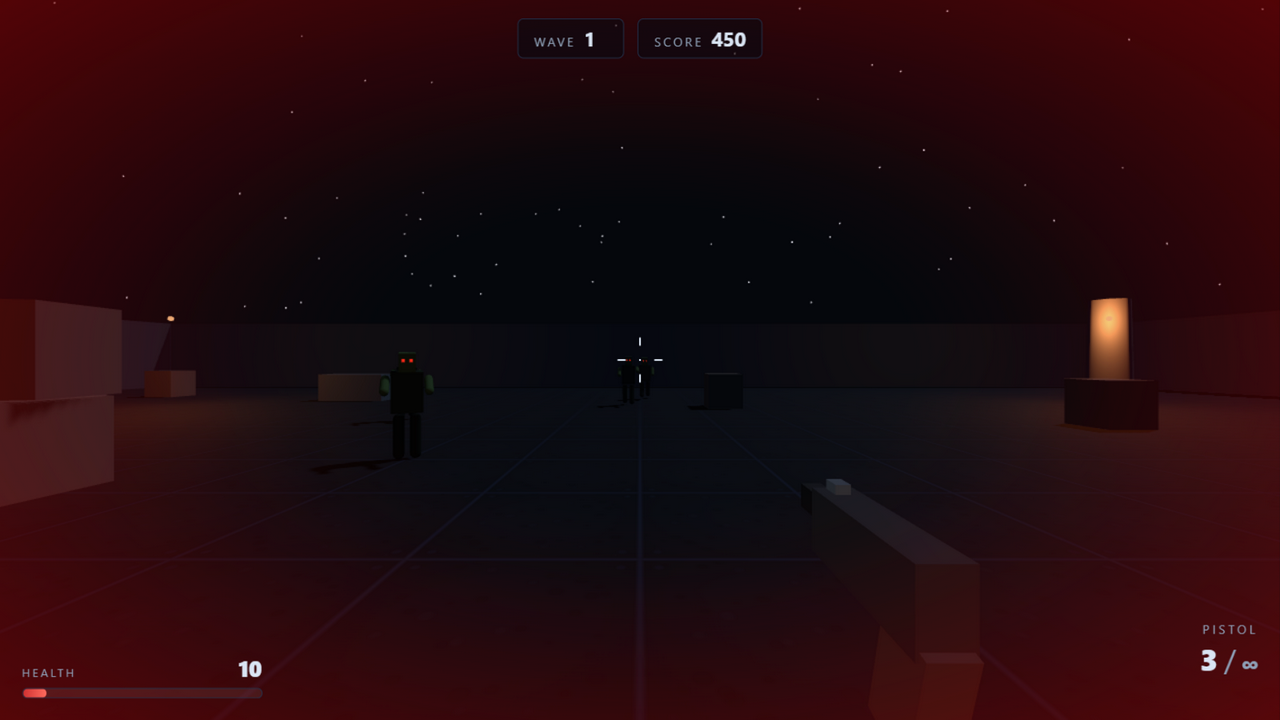
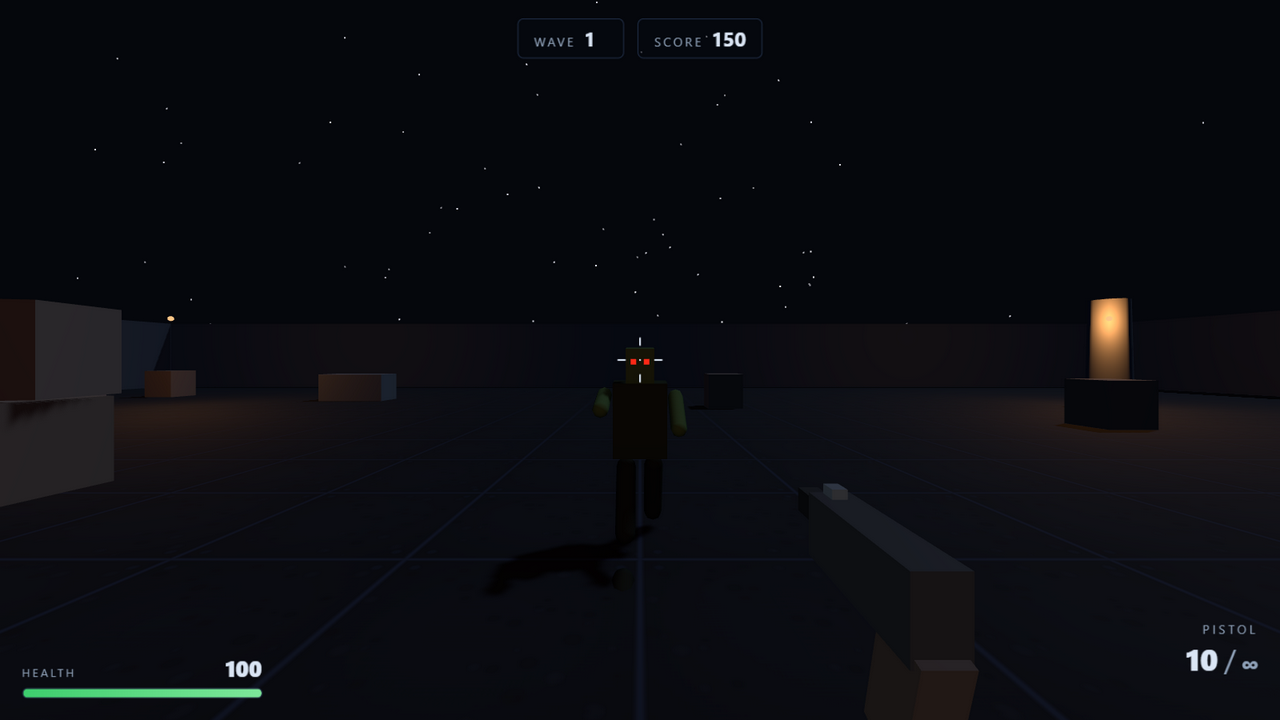
docs: README + polish from independent review

diff --git a/src/systems/combat.js b/src/systems/combat.js
@@ -4,9 +4,19 @@
  *
  * - 1 ray normally; for the shotgun cast 8 rays jittered inside a cone of
  *   half-angle weapon.spread radians (weapon.pellets === 8).
- * - Ray targets: every live zombie in `zombies` (the shared array main.js
- *   keeps in sync — each Zombie exposes `.group`, a THREE.Group whose meshes
- *   carry userData.part === "head" | "body"). Cap ray distance (~100 m).
+ * - Ray scope: the whole `scene` (roots = scene.children minus the particles
+ *   InstancedMesh) so level geometry occludes — bullets stop at walls,
+ *   pillars, crates and the floor. Damage targets: every live zombie in
+ *   `zombies` (the shared array main.js keeps in sync — each Zombie exposes
+ *   `.group`, a THREE.Group whose meshes carry userData.part === "head" |
+ *   "body" and userData.zombie). Cap ray distance (~100 m).
+ * - Occlusion: intersections arrive sorted closest-first and the ray walks
+ *   them until it resolves. A mesh marked userData.solid (level.js tags
+ *   floor/walls/obstacles) stops the pellet — no damage, no sound, no
+ *   hitmarker, no blood. The pellet PASSES THROUGH: the camera subtree
+ *   (weapons viewmodel), corpses (userData.zombie with alive === false,
+ *   still fading for 1.5 s), and unmarked objects (bulbs, pickups —
+ *   decorations, not cover).
  * - Damage: weapon.damage per pellet; a hit on userData.part === "head"
  *   doubles it (x2).
  * - For each landed pellet: zombie.takeDamage(dmg, headshot) (returns true if
@@ -57,9 +67,11 @@ export function createCombat(camera, scene, zombies, particles, audio, bus) {
   const CENTER = new THREE.Vector2(0, 0); // screen center → setFromCamera basis
 
   // Reused buffers — no per-shot steady-state allocation beyond event objects.
-  const targets = [];        // live zombie root groups (this shot)
+  const targets = [];        // live zombie root groups (this shot); the
+                             // classification fallback for an untagged group
   const targetZombies = [];  // parallel: targets[i] ↔ targetZombies[i]
   const hitBuf = [];         // intersectObjects output (cleared per pellet)
+  const raycastRoots = [];   // scene.children minus the particles mesh (per shot)
   const camDir = new THREE.Vector3();
   const rightB = new THREE.Vector3();
   const upB = new THREE.Vector3();
@@ -67,26 +79,45 @@ export function createCombat(camera, scene, zombies, particles, audio, bus) {
   const camPos = new THREE.Vector3();
   const muzzlePos = new THREE.Vector3();
 
-  // Walk up from a hit mesh to its zombie root group; record the first
-  // userData.part seen on the way (head/body tagging lives on the meshes).
+  // Walk up from a hit mesh to its root and decide what the pellet met, in
+  // one pass. Verdicts:
+  //   0 — pass through: the camera subtree (weapons viewmodel), a corpse
+  //       (userData.zombie with alive === false), or anything unmarked
+  //       (bulbs, pickups, particles — decorations, not cover). The ray
+  //       continues to the next surface.
+  //   1 — live zombie hit: foundZombie/foundPart are set (first userData.part
+  //       seen on the way — head/body tagging lives on the meshes). Sources:
+  //       userData.zombie on the meshes, or targets membership as the
+  //       fallback for an untagged group.
+  //   2 — solid level geometry (userData.solid, tagged by level.js on
+  //       floor/walls/obstacles): the pellet stops, nothing else happens.
   let foundZombie = null;
   let foundPart = null;
-  function resolveTarget(obj) {
+  function classify(obj) {
     foundZombie = null;
     foundPart = null;
     let o = obj;
     while (o) {
-      if (foundPart === null && o.userData && o.userData.part) {
-        foundPart = o.userData.part;
+      if (o === camera) return 0; // never shoot the viewmodel off your own gun
+      const ud = o.userData;
+      if (ud) {
+        if (foundPart === null && ud.part) {
+          foundPart = ud.part;
+        }
+        if (ud.zombie) {
+          foundZombie = ud.zombie;
+          return ud.zombie.alive ? 1 : 0; // corpse: fade on, pellet through
+        }
+        if (ud.solid) return 2;
       }
       const idx = targets.indexOf(o);
       if (idx !== -1) {
         foundZombie = targetZombies[idx];
-        return true;
+        return 1;
       }
       o = o.parent;
     }
-    return false;
+    return 0;
   }
 
   function shoot(weapon) {
@@ -104,6 +135,24 @@ export function createCombat(camera, scene, zombies, particles, audio, bus) {
         targets.push(z.group);
         targetZombies.push(z);
       }
+    }
+
+    // Raycast roots for this shot: scene.children minus the particles
+    // InstancedMesh — its pool instances sit right in front of the muzzle,
+    // and testing them per pellet is wasted work (they are pass-through
+    // anyway; classify() never marks them solid). The camera stays in the
+    // list: its viewmodel subtree is filtered per hit by classify() instead.
+    raycastRoots.length = 0;
+    let roots;
+    if (scene) {
+      const children = scene.children;
+      for (let i = 0; i < children.length; i++) {
+        const c = children[i];
+        if (!c.isInstancedMesh) raycastRoots.push(c);
+      }
+      roots = raycastRoots;
+    } else {
+      roots = targets; // degenerate bootstrap (no scene): zombies only
     }
 
     // The controller/weapons wrote camera transform this frame; make the
@@ -134,22 +183,29 @@ export function createCombat(camera, scene, zombies, particles, audio, bus) {
       }
       raycaster.ray.direction.copy(pelletDir);
 
+      // Intersections come back sorted closest-first (Raycaster.ascSort);
+      // walk them in order until the pellet resolves — a live zombie takes
+      // the damage, a solid surface eats it, everything else is passed
+      // through. An exhausted list means the pellet left the arena.
       hitBuf.length = 0;
-      raycaster.intersectObjects(targets, true, hitBuf);
-      if (hitBuf.length === 0) continue;
-      const hit = hitBuf[0]; // closest intersection takes the pellet
-      if (!resolveTarget(hit.object)) continue;
-      if (!foundZombie.alive) continue; // died from an earlier pellet this shot
-
-      const headshot = foundPart === "head";
-      const dmg = headshot ? damage * HEADSHOT_MULT : damage;
-      const killed = foundZombie.takeDamage(dmg, headshot) === true;
-      if (particles) {
-        particles.spawnBlood(hit.point, 8 + Math.floor(Math.random() * 7)); // 8..14
+      raycaster.intersectObjects(roots, true, hitBuf);
+      for (let h = 0; h < hitBuf.length; h++) {
+        const hit = hitBuf[h];
+        const verdict = classify(hit.object);
+        if (verdict === 0) continue; // viewmodel / corpse / decoration — through
+        if (verdict === 2) break;    // level cover: the pellet stops, silent
+        if (!foundZombie.alive) continue; // died from an earlier pellet this shot
+        const headshot = foundPart === "head";
+        const dmg = headshot ? damage * HEADSHOT_MULT : damage;
+        const killed = foundZombie.takeDamage(dmg, headshot) === true;
+        if (particles) {
+          particles.spawnBlood(hit.point, 8 + Math.floor(Math.random() * 7)); // 8..14
+        }
+        landed = true;
+        if (headshot) anyHead = true;
+        if (killed) anyKilled = true;
+        break; // the pellet is spent on this zombie
       }
-      landed = true;
-      if (headshot) anyHead = true;
-      if (killed) anyKilled = true;
     }
 
     // One hit feedback per shoot() call that landed something — never per

diff --git a/src/world/level.js b/src/world/level.js
@@ -5,6 +5,11 @@
  * no external assets). Use merged geometry or otherwise keep the draw-call
  * count low. Floor/walls receive shadows; obstacles cast + receive.
  *
+ * Every solid surface (floor, walls, obstacle meshes) also carries
+ * userData.solid = true — combat.js bullet occlusion stops pellets on marked
+ * meshes. level.js is the single place that declares what is cover: a new
+ * obstacle added here must go through the same path to block shots.
+ *
  * Colliders are axis-aligned XZ rectangles (the game simulates XZ only):
  *   {minX, maxX, minZ, maxZ} in meters, covering walls + all obstacles.
  *
@@ -170,6 +175,7 @@ export function createLevel(scene) {
   materials.push(floorMat);
   const floor = new THREE.Mesh(floorGeo, floorMat);
   floor.receiveShadow = true;
+  floor.userData.solid = true; // combat.js: the floor stops bullets
   objects.push(floor);
   scene.add(floor);
 
@@ -204,6 +210,7 @@ export function createLevel(scene) {
   const walls = new THREE.Mesh(wallGeo, wallMat);
   walls.castShadow = true;
   walls.receiveShadow = true;
+  walls.userData.solid = true; // combat.js: walls stop bullets
   objects.push(walls);
   scene.add(walls);
 
@@ -251,6 +258,7 @@ export function createLevel(scene) {
     const mesh = new THREE.Mesh(merged, obstacleMat);
     mesh.castShadow = true;
     mesh.receiveShadow = true;
+    mesh.userData.solid = true; // combat.js: crates/blocks/pillars stop bullets
     objects.push(mesh);
     scene.add(mesh);
   }

diff --git a/README.md b/README.md
@@ -1,0 +1,65 @@
+# Gun Game
+
+Game bắn súng góc nhìn thứ nhất (FPS) sinh tồn zombie trong một đấu trường đêm 60×60 m, viết bằng **Three.js + Vite** (ES modules thuần, không framework). Sống sót qua từng đợt wave ngày càng đông, săn headshot để ghi điểm và phá kỷ lục của chính mình.
+
+![Ảnh chụp màn hình](docs/screenshots/smoke.png)
+
+## Cách chạy
+
+Cần Node.js đã cài sẵn trên máy.
+
+```bash
+# 1. Cài phụ thuộc
+npm install
+
+# 2. Chạy máy dev (cổng mặc định 5173)
+npm run dev
+```
+
+Mở **http://localhost:5173** trong trình duyệt (vì cấu hình `host: true`, máy khác trong LAN cũng truy cập được qua IP của bạn).
+
+Hoặc chạy bản build production:
+
+```bash
+npm run build     # xuất bản build vào dist/
+npm run preview   # phục vụ dist/ tại http://localhost:4173
+```
+
+## Điều khiển
+
+| Phím / thao tác | Hành động |
+|---|---|
+| `W` `A` `S` `D` | Di chuyển |
+| `Shift` (trái/phải) | Chạy nhanh (×1.6 tốc độ đi bộ) |
+| `Space` | Nhảy |
+| Chuột | Ngắm (pointer lock) |
+| Chuột trái | Bắn |
+| `R` | Nạp đạn |
+| `1` `2` `3` hoặc con lăn chuột | Đổi súng |
+| `Esc` (hoặc `P`) | Tạm dừng / tiếp tục |
+
+## Tính năng
+
+- **3 loại súng** với cơ chế riêng: lục-cigaret bắn từng viên (25 sát thương, đạn dự trữ vô hạn), shotgun bắn 8 viên đạn ghém mỗi phát, súng trường bắn tự động 600 phát/phút. Đều có giật, độ tản đạn, thời gian nạp đạn và đèn nháy đầu nòng riêng.
+- **3 loại zombie**: Walker (100 HP, chậm, 15 sát thương), Runner (60 HP, nhanh, xuất hiện từ wave 2), Brute (400 HP, trâu bò, xuất hiện từ wave 4). Mỗi loại có model, màu da và tốc độ riêng.
+- **Hệ thống wave**: wave *n* có `5 + n×3` zombie, xuất hiện rải đều mỗi 0.8–1.5 s; quét sạch wave sẽ có 10 giây nghỉ rồi wave tiếp theo bắt đầu.
+- **Pickups**: zombie chết có 18% rơi vật phẩm — 70% là hộp đạn (+1 băng đạn cho súng đang cầm), 30% là blood bag (+40 HP, tối đa 100).
+- **Headshot**: bắn trúng đầu nhân đôi sát thương (×2) và nhân 1.5 điểm thưởng.
+- **High score**: điểm cao nhất được lưu tự động vào `localStorage` (kèm thiết lập chuột, âm lượng, ngôn ngữ).
+- **Song ngữ EN/VI**: đổi tiếng Anh / tiếng Việt ngay trong màn Settings (cùng với độ nhạy chuột 0.5–3.0 và âm lượng 0–1).
+
+## Cấu trúc source
+
+```
+src/
+├── core/        # Nền tảng: engine.js (renderer/scene/camera), input.js (phím + chuột + pointer lock),
+│                # audio.js, settings.js (localStorage), i18n.js (EN/VI), debug.js (window.__game)
+├── world/       # Môi trường: level.js (sân 60×60 m, tường, vật cản + collider XZ),
+│                # atmosphere.js (trời đêm, sương mù, đèn nhấp nháy)
+├── player/      # Người chơi: controller.js (di chuyển/nhảy/va chạm), weapons.js (3 súng, recoil, viewmodel)
+├── zombies/     # Kẻ địch: zombie.js (model + AI đuổi/ tấn công + animation chết), waves.js (điều phối wave)
+├── systems/     # Gameplay: combat.js (hitscan + tường chặn đạn), particles.js, pickups.js,
+│                # gamestate.js (state machine, điểm, high score, bus sự kiện chung)
+├── ui/          # Giao diện: hud.js (máu/đạn/điểm/kill feed), menus.js (menu, pause, settings, game over)
+└── main.js      # Bootstrap + vòng lặp game + nối dây mọi module qua bus
+```
